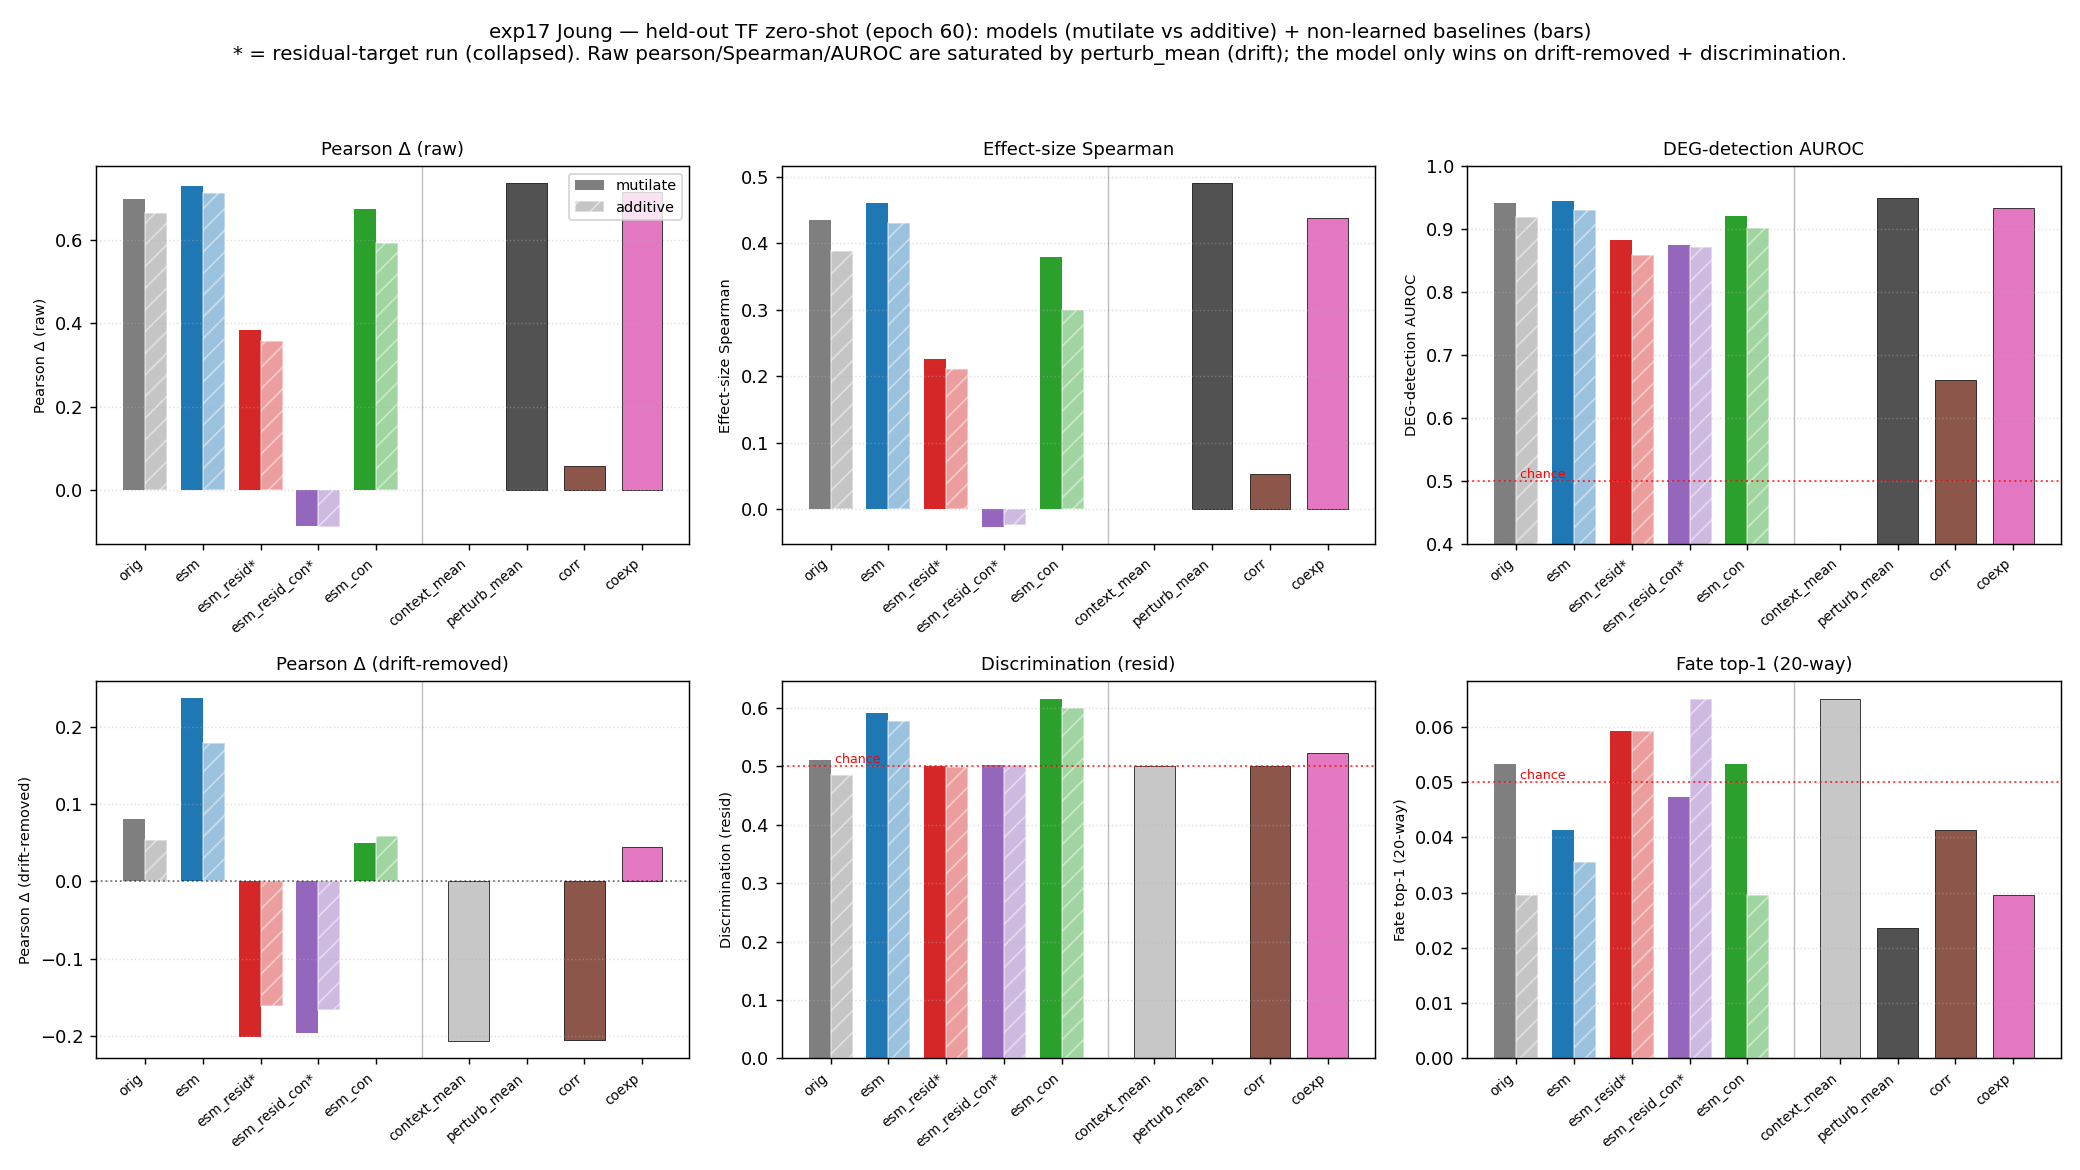
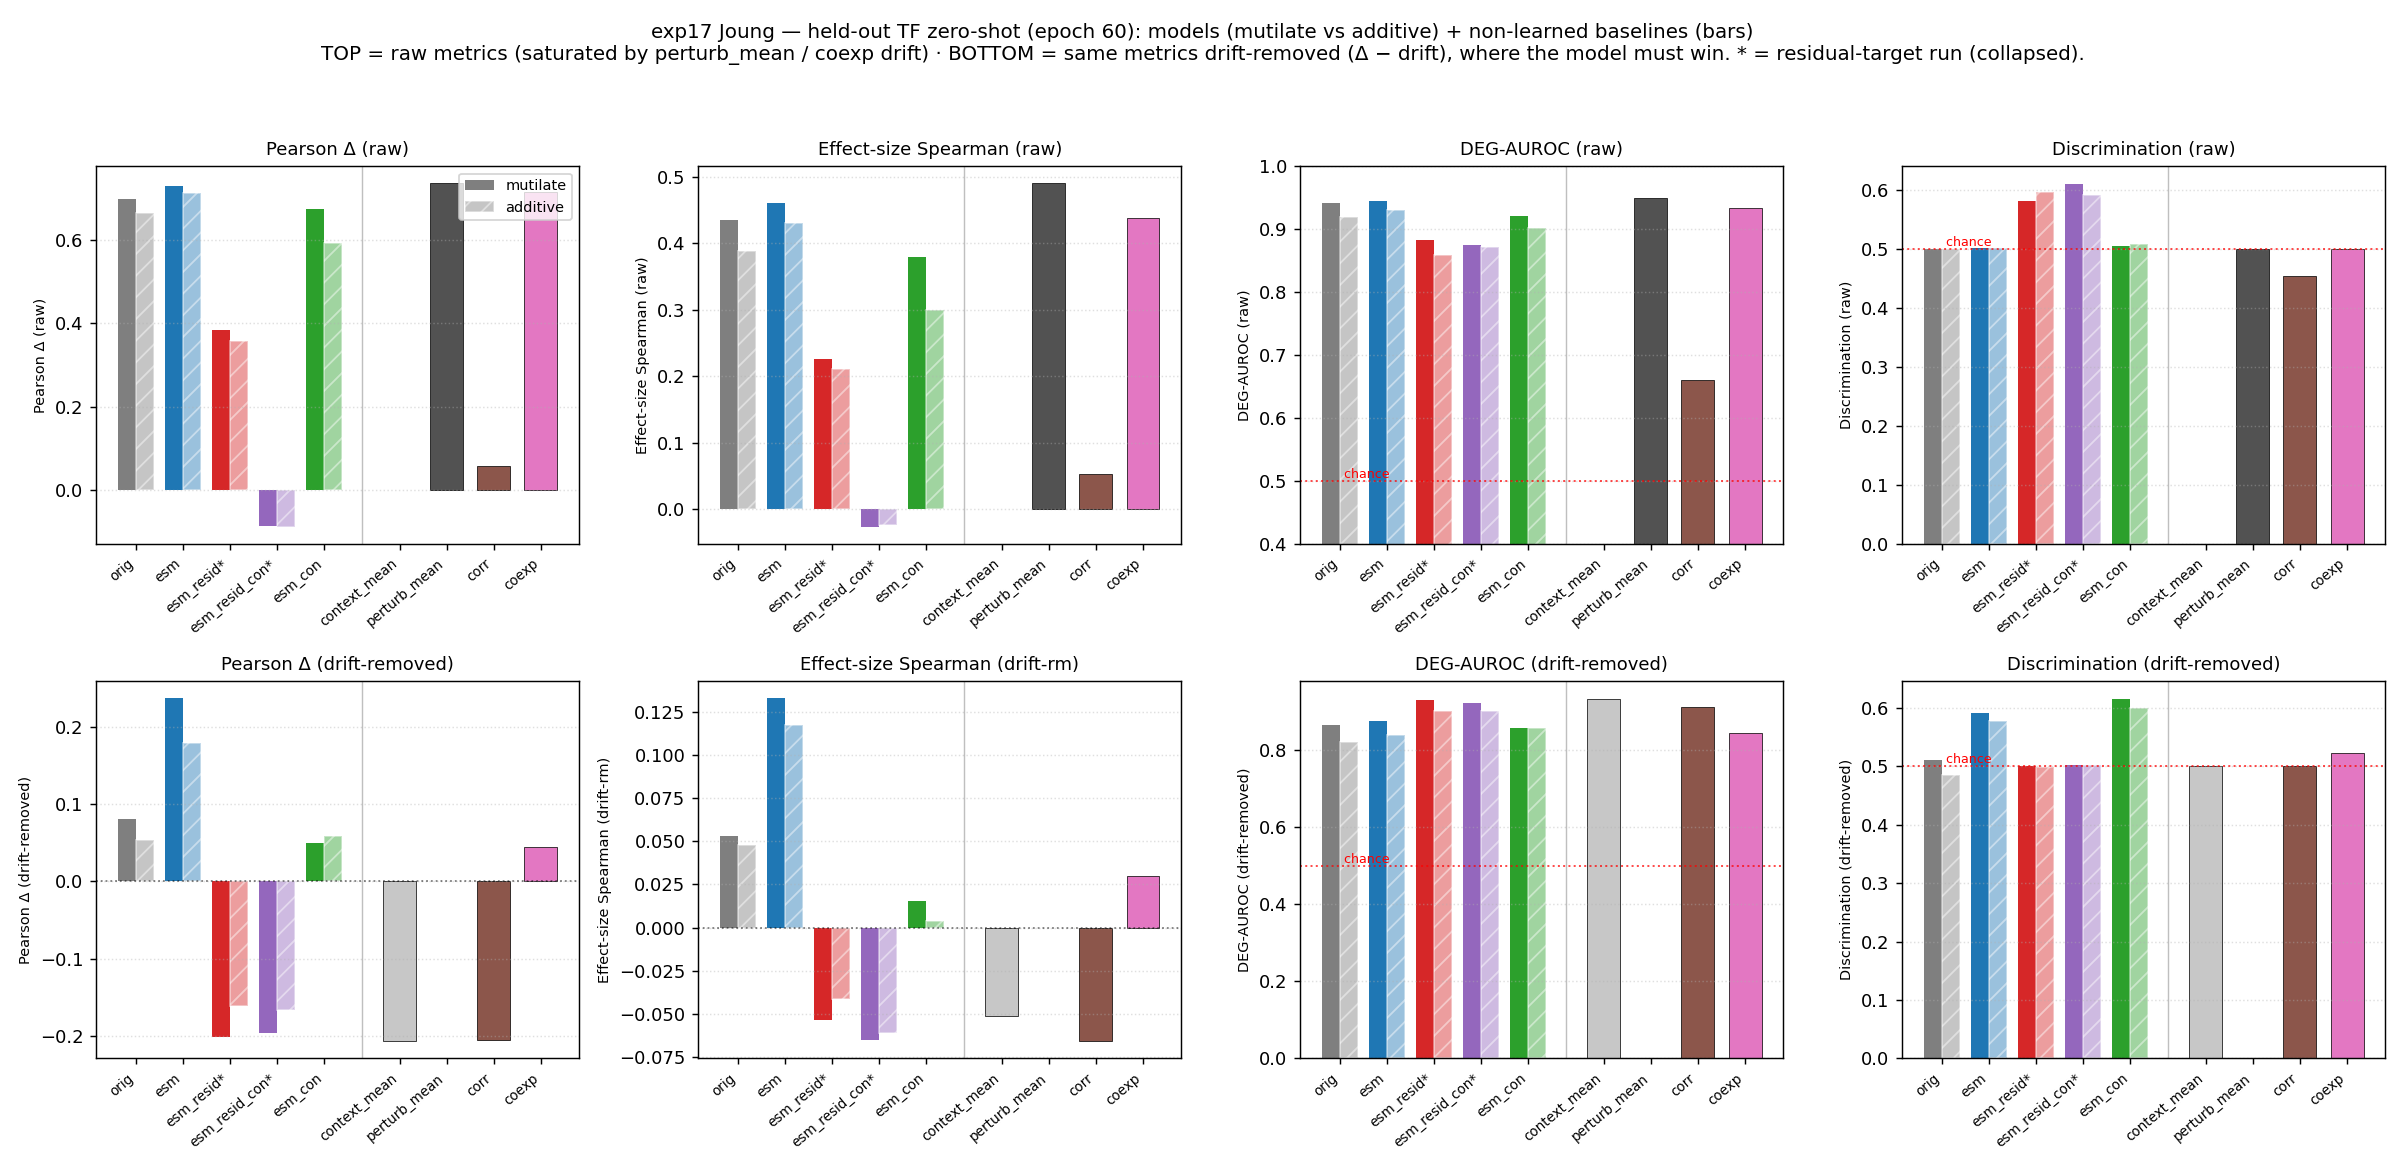
exp17: singles figure → raw(top)/drift-removed(bottom) 2x4 grid; drop fate_top1
Replace the fate_top1 panel with the drift-removed Effect-size Spearman and DEG-AUROC. The
singles panel is now a clean raw-vs-resid grid over the 4 gene-space metrics (Pearson Δ,
Effect-size Spearman, DEG-AUROC, Discrimination): top row raw (saturated by perturb_mean/coexp),
bottom row drift-removed (Δ − drift) where the model must win. Regenerated exp17_singles_panels.png.

diff --git a/experiments/exp17_joung_tfatlas/evaluation/plot_summary.py b/experiments/exp17_joung_tfatlas/evaluation/plot_summary.py
@@ -67,14 +67,18 @@ def panel(ax, title, ylabel, model_a, model_b, lab_a, lab_b, base_vals,
 def fig_singles(S, B):
     bs = B.get('singles', {})
     bnames = ['context_mean', 'perturb_mean', 'corr', 'coexpression']
-    fig, axes = plt.subplots(2, 3, figsize=(16, 9))
+    fig, axes = plt.subplots(2, 4, figsize=(18.5, 9))
     specs = [
-        ('pearson_delta',            'Pearson Δ (raw)',           dict()),
-        ('effect_spearman',          'Effect-size Spearman',      dict()),
-        ('deg_auroc',                'DEG-detection AUROC',       dict(chance=0.5, ylim=(0.4, 1.0))),
-        ('pearson_delta_resid',      'Pearson Δ (drift-removed)', dict(zero=True)),
-        ('discrimination_cos_resid', 'Discrimination (resid)',    dict(chance=0.5)),
-        ('fate_top1',                'Fate top-1 (20-way)',       dict(chance=0.05)),
+        # TOP ROW — raw metrics (saturated by the drift baselines)
+        ('pearson_delta',            'Pearson Δ (raw)',             dict()),
+        ('effect_spearman',          'Effect-size Spearman (raw)',  dict()),
+        ('deg_auroc',                'DEG-AUROC (raw)',             dict(chance=0.5, ylim=(0.4, 1.0))),
+        ('discrimination_cos',       'Discrimination (raw)',        dict(chance=0.5)),
+        # BOTTOM ROW — drift-removed (same metric, residual = Δ − drift)
+        ('pearson_delta_resid',      'Pearson Δ (drift-removed)',       dict(zero=True)),
+        ('effect_spearman_resid',    'Effect-size Spearman (drift-rm)', dict(zero=True)),
+        ('deg_auroc_resid',          'DEG-AUROC (drift-removed)',       dict(chance=0.5)),
+        ('discrimination_cos_resid', 'Discrimination (drift-removed)',  dict(chance=0.5)),
     ]
     for ax, (key, ylab, kw) in zip(axes.ravel(), specs):
         ma = [g(S.get(m, {}), key) for m in MODELS]
@@ -83,8 +87,8 @@ def fig_singles(S, B):
         panel(ax, ylab, ylab, ma, mb, 'mutilate', 'additive', bv, **kw)
     axes[0, 0].legend(fontsize=8, loc='upper right')
     fig.suptitle('exp17 Joung — held-out TF zero-shot (epoch 60): models (mutilate vs additive) + non-learned baselines (bars)\n'
-                 '* = residual-target run (collapsed). Raw pearson/Spearman/AUROC are saturated by perturb_mean (drift); '
-                 'the model only wins on drift-removed + discrimination.', fontsize=11)
+                 'TOP = raw metrics (saturated by perturb_mean / coexp drift) · BOTTOM = same metrics drift-removed (Δ − drift), '
+                 'where the model must win. * = residual-target run (collapsed).', fontsize=11)
     fig.tight_layout(rect=[0, 0, 1, 0.95])
     p = f"{FIG}/exp17_singles_panels.png"; fig.savefig(p, dpi=130); plt.close(fig); return p
 
